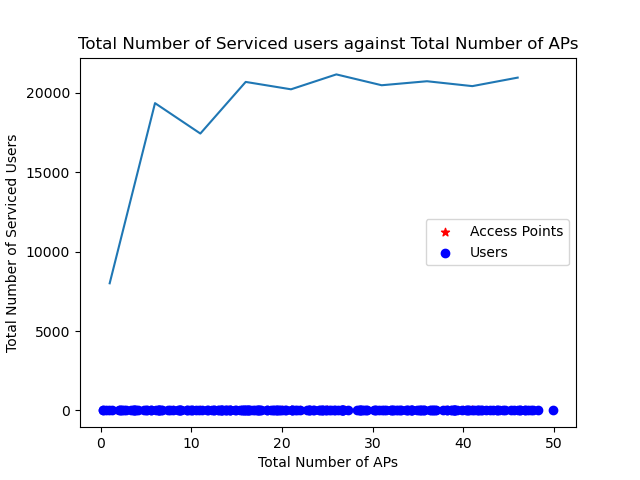
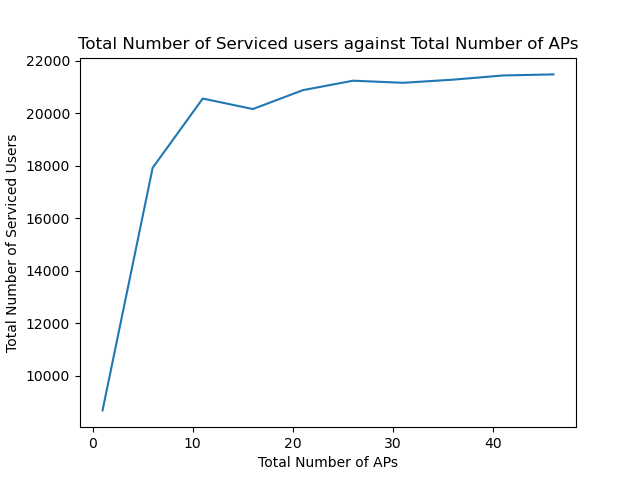
Test numpy vs list

diff --git a/network-simulator/components.py b/network-simulator/components.py
@@ -1,5 +1,6 @@
 from random import randint
 from operator import itemgetter
+import numpy as np
 import envs
 from helpers import calcDistance
 from helpers import calcPowerTransmit
@@ -269,7 +270,7 @@ def initialiseEnv(init_vars, ppp):
     #     tmpenergy = randint(0, ENERGY_STORE_MAX)
     #     tmpap = AccessPoint(index, tmploc, tmpenergy)
     #     aplist.append(tmpap)
-    aplist = [ AccessPoint(index, Location(randint(0, GRID_SIZE), randint(0, GRID_SIZE)), randint(0, ENERGY_STORE_MAX)) for index in range(AP_TOTAL) ]
+    aplist = np.array([ AccessPoint(index, Location(randint(0, GRID_SIZE), randint(0, GRID_SIZE)), randint(0, ENERGY_STORE_MAX)) for index in range(AP_TOTAL) ])
     # Initialise Users
     # for index in range(USR_TOTAL):
     #     tmploc = Location(randint(0, GRID_SIZE), randint(0, GRID_SIZE))
@@ -277,11 +278,9 @@ def initialiseEnv(init_vars, ppp):
     #     usrlist.append(tmpusr)
     if ppp == 1:
         usr_x, usr_y = generateUsersPPP(GRID_SIZE, USR_TOTAL / GRID_SIZE / GRID_SIZE)
-        for i in range(len(usr_x)):
-            usrlist.append(User(i, Location(usr_x[i], usr_y[i])))
-
+        usrlist = np.array([User(i, Location(usr_x[i], usr_y[i])) for i in range(len(usr_x))])
     else:
-        usrlist = [ User(index, Location(randint(0, GRID_SIZE), randint(0, GRID_SIZE))) for index in range(USR_TOTAL) ]
+        usrlist = np.array([User(index, Location(randint(0, GRID_SIZE), randint(0, GRID_SIZE))) for index in range(USR_TOTAL)])
 
     # Create Markov states
     # markovstates = energyArrivalStates(TIME_MAX)
@@ -306,7 +305,8 @@ def simulator(init_vars, apuserplot, ppp):
             ap.discharge()
             ap.disconnectUser()
             # ap.info()
-            tmpenergy = energyArrivalOutput(markovstates[time_unit]) * PANEL_SIZE * 0.2 / 300 / 60 * 5
+            # TODO Fix energy arrival
+            tmpenergy = energyArrivalOutput(markovstates[time_unit]) * PANEL_SIZE * 0.2
 
             # print('Energy Generated: {}'.format(tmpenergy))
             ap.charge(tmpenergy if tmpenergy < 0 else 0)

diff --git a/network-simulator/simulator.py b/network-simulator/simulator.py
@@ -1,4 +1,5 @@
 import matplotlib.pyplot as plt
+import numpy as np
 from random import randint
 from components import simulator
 from discreteMarkov import energyArrivalStates
@@ -61,13 +62,13 @@ if __name__ == '__main__':
     # bar.finish()
     # avg_sum_serviced_user_apnumber = map(sum, zip(*tmp_serviced_user_apnumber))
 
-    avg_serviced_user_apnumber = []
+    avg_serviced_user_apnumber  = np.empty(shape=(len(range_AP_total),), dtype=int)
     # # for item in avg_sum_serviced_user_apnumber:
     # #     avg_serviced_user_apnumber.append(item / len(total_runs))
-    for AP_TOTAL in range_AP_total:
+    for i, AP_TOTAL in enumerate(range_AP_total):
         init_vars["AP_TOTAL"] = AP_TOTAL
         serviced_user_apnumber = [simulator(init_vars, 0, 0) for run in total_runs]
-        avg_serviced_user_apnumber.append(sum(serviced_user_apnumber) / len(total_runs))
+        avg_serviced_user_apnumber[i] = (sum(serviced_user_apnumber) / len(total_runs))
         bar.next()
     bar.finish()
 
@@ -162,14 +163,14 @@ if __name__ == '__main__':
     usr_loc_ppp = list(zip(*usrloc_ppp))
 
     # plt.rcParams["font.family"] = "Iosevka SS16"
-    plot1 = plt.figure(1)
-    plt.scatter(ap_loc[0], ap_loc[1], label='Access Points', color='red', marker='*')
-    plt.scatter(usr_loc[0], usr_loc[1], label='Users', color='blue', marker='o')
-    plt.xlabel('x - axis')
-    plt.ylabel('y - axis')
-    plt.title('Coordinate of APs and Users in the Grid')
-    plt.legend()
-    plt.savefig('scatterAPUser.png')
+    # plot1 = plt.figure(1)
+    # plt.scatter(ap_loc[0], ap_loc[1], label='Access Points', color='red', marker='*')
+    # plt.scatter(usr_loc[0], usr_loc[1], label='Users', color='blue', marker='o')
+    # plt.xlabel('x - axis')
+    # plt.ylabel('y - axis')
+    # plt.title('Coordinate of APs and Users in the Grid')
+    # plt.legend()
+    # plt.savefig('scatterAPUser.png')
     
     # PPP
     # plot2 = plt.figure(2)
